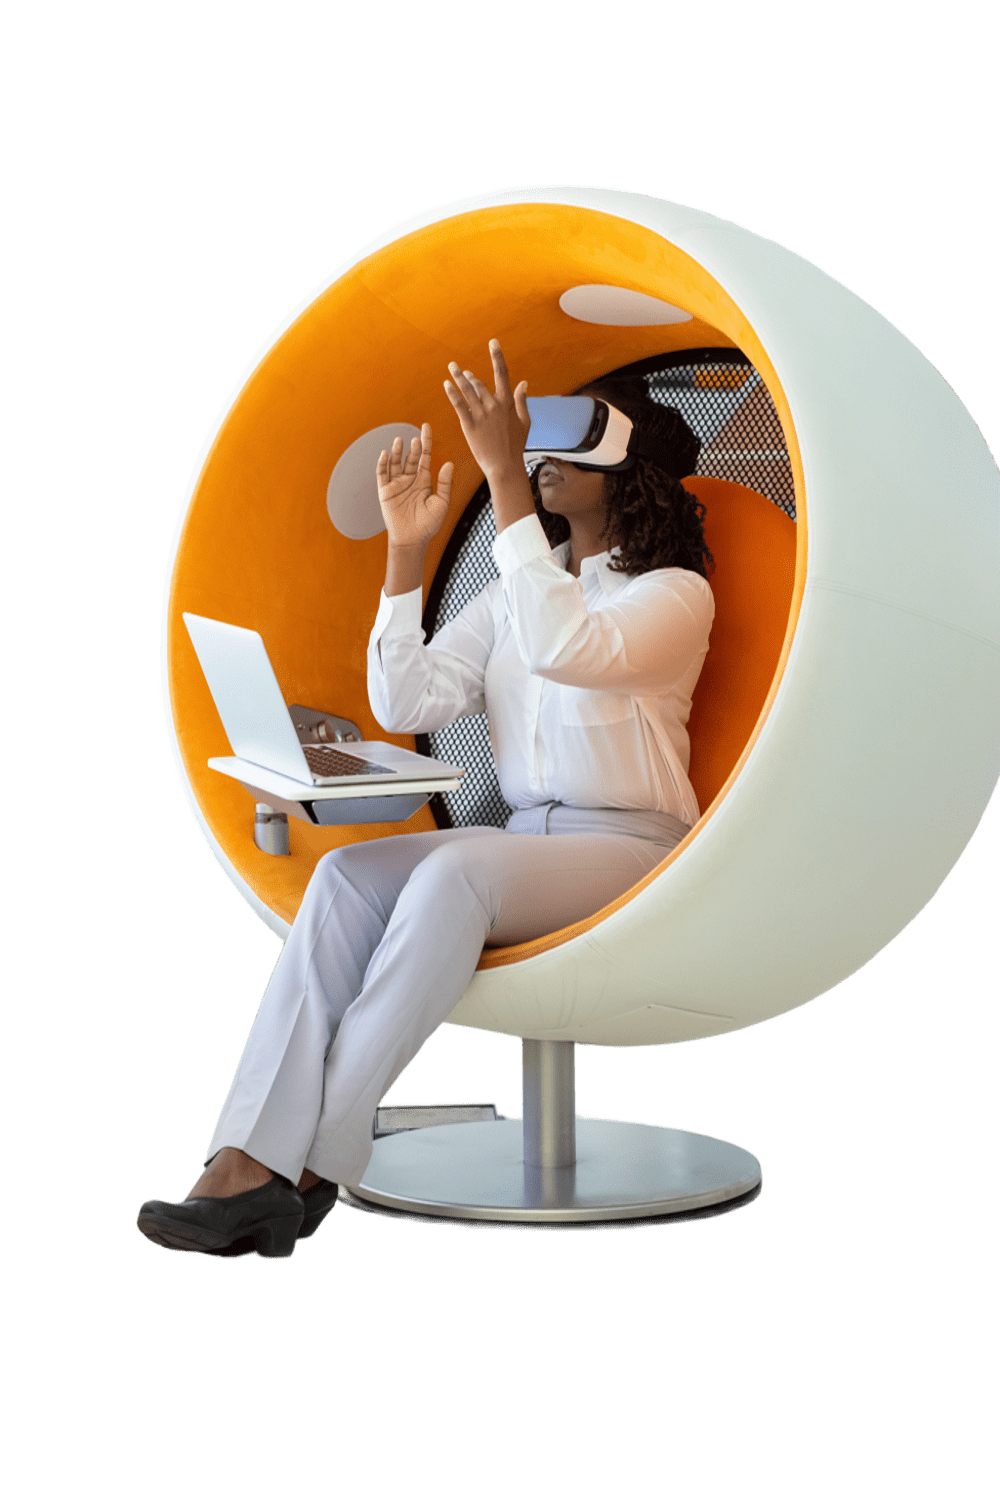
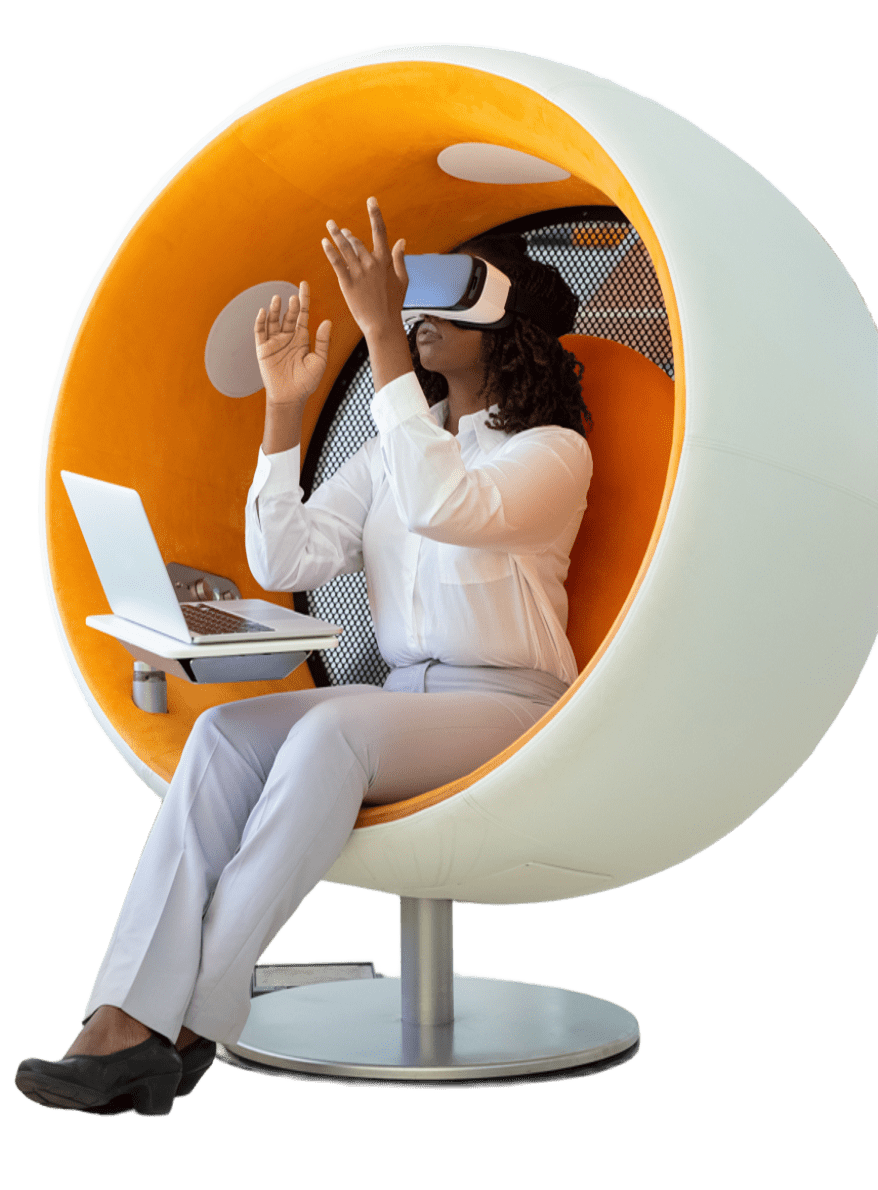
first commit33

diff --git a/assets/js/view/home/home.html b/assets/js/view/home/home.html
@@ -363,7 +363,7 @@
         </div>
 
 
-        <div class="container" data-aos-delay="100">
+        <div class="container">
             <div class="row gy-4 align-items-center justify-content-between">
                 <div class="col-xl-7" data-aos-delay="200">
 
@@ -425,14 +425,19 @@
 
 
     <!-- Features 2 Section -->
-    <section id="features-2" class="features-2 section ">
-        <div class="container" data-aos-delay="100">
+    <section id="features-2" class="features-2 section pt-5">
+        <div class="container">
             <div class="row align-items-center">
                 <div class="col-lg-4">
-                    <div class="feature-item text-end mb-5" data-aos="fade-right" data-aos-delay="200">
+                    <div class="feature-item text-end mb-3" data-aos="zoom-out" data-aos-delay="200">
                         <div class="d-flex align-items-center justify-content-end gap-4">
                             <div class="feature-content">
-                                <h4>Conecte-se ao Sucesso</h4>
+
+
+                                <h4 class="hero-title-5  ">
+                                    Conecte-se ao <span> Sucesso</span>
+                                </h4>
+
                                 <p>
                                     Aproximamos a sua marca dos clientes certos.</p>
                             </div>
@@ -443,10 +448,14 @@
                     </div>
                     <!-- End .feature-item -->
 
-                    <div class="feature-item text-end mb-5" data-aos="fade-right" data-aos-delay="300">
+                    <div class="feature-item text-end mb-3" data-aos="zoom-out" data-aos-delay="200">
                         <div class="d-flex align-items-center justify-content-end gap-4">
                             <div class="feature-content">
-                                <h4>Digital Sem Limites</h4>
+
+                                <h4 class="hero-title-5  ">
+                                    Digital Sem <span> Limites</span>
+                                </h4>
+
                                 <p>
                                     Soluções modernas para empresas que querem crescer. </p>
                             </div>
@@ -457,10 +466,13 @@
                     </div>
                     <!-- End .feature-item -->
 
-                    <div class="feature-item text-end" data-aos="fade-right" data-aos-delay="400">
+                    <div class="feature-item text-end">
                         <div class="d-flex align-items-center justify-content-end gap-4">
                             <div class="feature-content">
-                                <h4>Transforme a Sua Presença</h4>
+
+                                <h4 class="hero-title-5  ">
+                                    Transforme a Sua <span> Presença</span>
+                                </h4>
                                 <p>
                                     Destaque-se no mercado com inovação e estratégia. </p>
                             </div>
@@ -472,7 +484,7 @@
                     <!-- End .feature-item -->
                 </div>
 
-                <div class="col-lg-4" data-aos="zoom-in" data-aos-delay="200">
+                <div class="col-lg-4" data-aos-delay="200">
                     <div class="phone-mockup text-center">
                         <img src="assets/img/progr.png" alt="Phone Mockup" class="img-fluid" />
                     </div>
@@ -480,13 +492,16 @@
                 <!-- End Phone Mockup -->
 
                 <div class="col-lg-4">
-                    <div class="feature-item mb-5" data-aos="fade-left" data-aos-delay="200">
+                    <div class="feature-item mb-3">
                         <div class="d-flex align-items-center gap-4">
                             <div class="feature-icon flex-shrink-0">
                                 <i class="bi bi-code-square"></i>
                             </div>
                             <div class="feature-content">
-                                <h4>Ideias que Ganham Vida</h4>
+
+                                <h4 class="hero-title-5  ">
+                                    Ideias que <span> Ganham Vida</span>
+                                </h4>
                                 <p>
                                     Desenvolvemos soluções feitas para o seu sucesso. </p>
                             </div>
@@ -494,13 +509,15 @@
                     </div>
                     <!-- End .feature-item -->
 
-                    <div class="feature-item mb-5" data-aos="fade-left" data-aos-delay="300">
+                    <div class="feature-item mb-3">
                         <div class="d-flex align-items-center gap-4">
                             <div class="feature-icon flex-shrink-0">
                                 <i class="bi bi-phone"></i>
                             </div>
                             <div class="feature-content">
-                                <h4>Tecnologia para Crescer</h4>
+                                <h4 class="hero-title-5  ">
+                                    <span> Tecnologia</span> para Crescer
+                                </h4>
                                 <p>
                                     Ferramentas inteligentes para acelerar os seus resultados. </p>
                             </div>
@@ -508,13 +525,15 @@
                     </div>
                     <!-- End .feature-item -->
 
-                    <div class="feature-item" data-aos="fade-left" data-aos-delay="400">
+                    <div class="feature-item">
                         <div class="d-flex align-items-center gap-4">
                             <div class="feature-icon flex-shrink-0">
                                 <i class="bi bi-browser-chrome"></i>
                             </div>
                             <div class="feature-content">
-                                <h4>A Evolução do Seu Negócio</h4>
+                                <h4 class="hero-title-5  ">
+                                    A Evolução do Seu <span> Negócio</span>
+                                </h4>
                                 <p>
                                     Transformação digital com foco em resultados.
                                 </p>
@@ -532,7 +551,7 @@
 
     <!-- Clients Section -->
     <section id="clients" class="clients section" style="background-color: #fff; padding: 20px 0;">
-        <div class="container" data-aos-delay="100">
+        <div class="container">
 
             <div class="swiper" ref="swiperContainer">
 
@@ -578,7 +597,7 @@
     <!-- Call To Action 2 Section -->
     <section id="call-to-action-2" class="call-to-action-2 section dark-background">
         <div class="container">
-            <div class="row justify-content-center" data-aos="zoom-in" data-aos-delay="100">
+            <div class="row justify-content-center">
                 <div class="col-xl-10">
                     <div class="text-center">
                         <h3>Mais Visibilidade, Mais Conversões, Mais Resultados</h3>

diff --git a/assets/js/components/footer/home.html b/assets/js/components/footer/home.html
@@ -48,14 +48,12 @@
                     <ul class="list-unstyled mb-4">
                         <li class="mb-2"><a href="#" class="text-decoration-none">Hospedagem de Sites</a></li>
                         <li class="mb-2"><a href="#" class="text-decoration-none">Hospedagem WordPress</a></li>
-                        <li class="mb-2"><a href="#" class="text-decoration-none">Revenda de Hospedagem</a></li>
                     </ul>
 
                     <h3 class="mb-3 highlight-title">Ferramentas</h3>
                     <ul class="list-unstyled">
                         <li class="mb-2"><a href="#" class="text-decoration-none">Whois</a></li>
                         <li class="mb-2"><a href="#" class="text-decoration-none">Meu IP</a></li>
-                        <li class="mb-2"><a href="#" class="text-decoration-none">Ping</a></li>
                         <li class="mb-2"><a href="#" class="text-decoration-none">+ Ferramentas</a></li>
                     </ul>
                 </div>
@@ -64,7 +62,7 @@
                 <div class="col-6 col-sm-4 col-md-2 footer-column">
                     <h3 class="mb-3">Servidores</h3>
                     <ul class="list-unstyled">
-                        <li class="mb-2"><a href="#" class="text-decoration-none">Servidor VPS</a></li>
+                        <li class="mb-2"><a href="#" class="text-decoration-none">Servidor Linox</a></li>
                         <li class="mb-2"><a href="#" class="text-decoration-none">Servidor Dedicado</a></li>
                         <li class="mb-2"><a href="#" class="text-decoration-none">Gerenciamento</a></li>
                     </ul>
@@ -72,15 +70,14 @@
 
                 <!-- Coluna 4: A Empresa -->
                 <div class="col-6 col-sm-6 col-md-2 footer-column">
-                    <h3 class="mb-3">A CyberNet</h3>
+                    <h3 class="mb-3">A JLSystem</h3>
                     <ul class="list-unstyled">
                         <li class="mb-2"><a href="#" class="text-decoration-none">Quem Somos</a></li>
                         <li class="mb-2"><a href="#" class="text-decoration-none">Infraestrutura</a></li>
                         <li class="mb-2"><a href="#" class="text-decoration-none">Contato</a></li>
                         <li class="mb-2"><a href="#" class="text-decoration-none">Suporte</a></li>
-                        <li class="mb-2"><a href="#" class="text-decoration-none">Tutoriais</a></li>
+                        <li class="mb-2"><a href="#" class="text-decoration-none">Aulas</a></li>
                         <li class="mb-2"><a href="#" class="text-decoration-none">Blog</a></li>
-                        <li class="mb-2"><a href="#" class="text-decoration-none">Termos e Políticas</a></li>
                         <li class="mb-2"><a href="#" class="text-decoration-none">Política de Privacidade</a></li>
                     </ul>
                 </div>
@@ -102,10 +99,9 @@
 
                     <h3 class="mb-3">Aceitamos</h3>
                     <div class="d-flex flex-wrap gap-2 mb-4">
-                        <span class="pay-badge">BOLETO</span>
-                        <span class="pay-badge">PIX</span>
+                        <span class="pay-badge">Express</span>
+                        <span class="pay-badge">Transferência</span>
                         <span class="pay-badge">VISA</span>
-                        <span class="pay-badge">MCARD</span>
                         <span class="pay-badge crypto">BITCOIN</span>
                     </div>
 
@@ -129,12 +125,12 @@
                             <i class="fas fa-terminal"></i>
                         </div>
                         <div class="company-text small text-muted">
-                            <p class="mb-0">Ditcom Internet Ltda. - 05.253.967/0001-07</p>
-                            <p class="mb-0">Av. Paulista, 1636, Sala 1105/588 - São Paulo, SP - 01310-200</p>
+                            <p class="mb-0">JLSystem Soluções Tecnologica. - 952 472 527</p>
+                            <p class="mb-0">Gameck- rua da igreja catolica- Luanda, Angola</p>
                         </div>
                     </div>
                     <div class="col-md-4 text-center text-md-end text-muted small">
-                        &copy; 2002-2026 CyberNet - Todos os direitos reservados.
+                        &copy; 2025-2026 JLSystem - Todos os direitos reservados.
                     </div>
                 </div>
             </div>

diff --git a/assets/css/style.css b/assets/css/style.css
@@ -277,6 +277,16 @@
                                          color: #de0e12;
                                      }
                                      
+                                     .hero-title-5 {
+                                         font-size: 1.2rem;
+                                         font-weight: 900;
+                                         line-height: 1.1;
+                                     }
+                                     
+                                     .hero-title-5 span {
+                                         color: #de0e12;
+                                     }
+                                     
                                      .hero-title span {
                                          color: #de0e12;
                                      }

diff --git a/index.html b/index.html
@@ -57,15 +57,8 @@
     <link href="./assets/vendor/swiper/swiper-bundle.min.css" rel="stylesheet" />
 
     <!-- Main CSS File -->
-
     <link href="./assets/css/menu.css" rel="stylesheet" />
-    <!-- =======================================================
-  * Template Name: iLanding
-  * Template URL: https://bootstrapmade.com/ilanding-bootstrap-landing-page-template/
-  * Updated: Nov 12 2024 with Bootstrap v5.3.3
-  * Author: BootstrapMade.com
-  * License: https://bootstrapmade.com/license/
-  ======================================================== -->
+
 </head>
 
 <body class="index-page plano-fundo">
